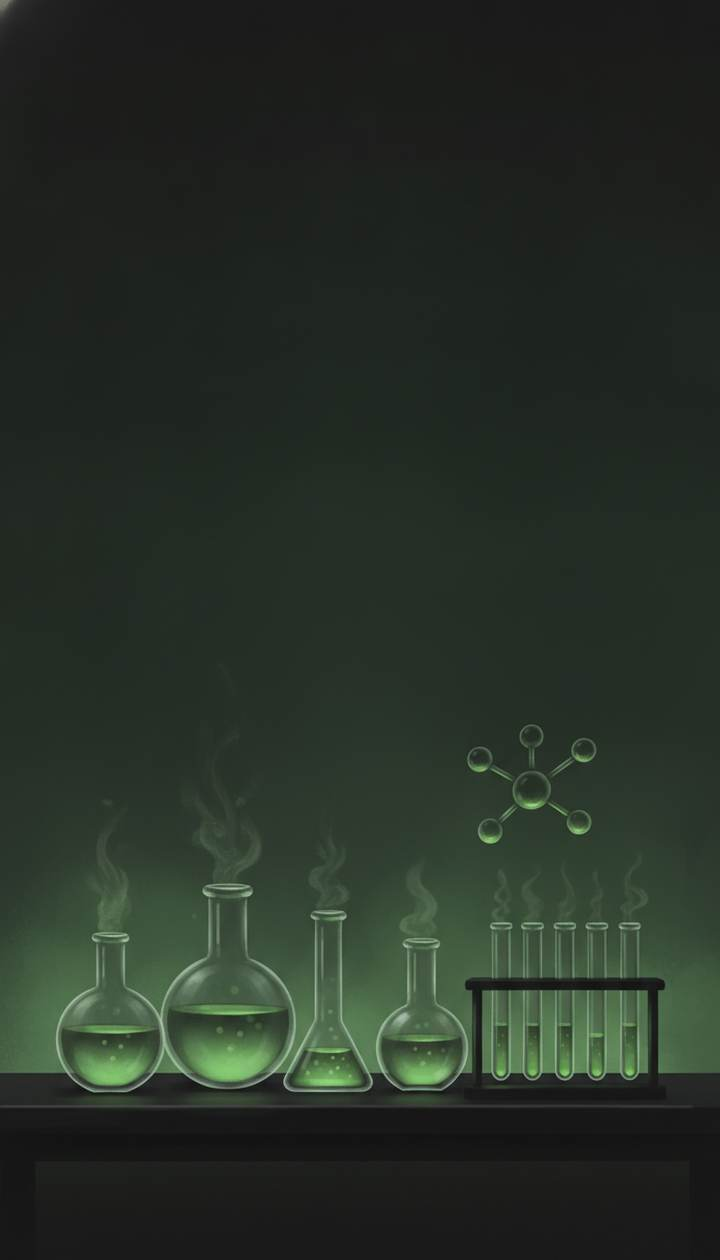
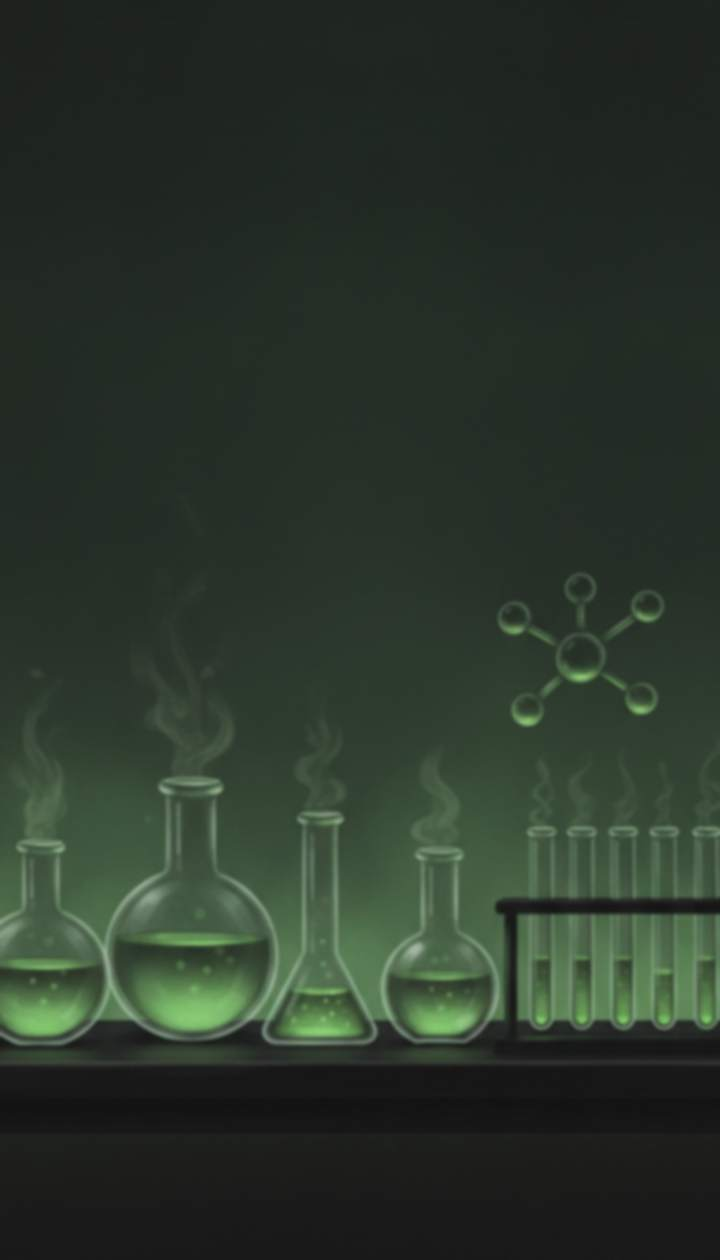
Rep Max v1.9.1 TEST: subject pictures that show, a calmer Maths
Further Maths, Chemistry and Computer Science showed nothing: their pictures'
content sat low, under the cards and the darkest part of the shade. Every
subject picture is now cropped round its content, softened and brought to a
common brightness, and the shade is more even. Maths has a new, calmer
picture (a desk with graph paper and a calculator). Two sections that shorten
to the same label (RS) keep the part before the colon. lib/bg is not used by
the live page, so its files were replaced in place.

Claude-Session: https://claude.ai/code/session_01LLwMj9AUuD7sV1ognCghbD

Changed region(s): [[0.0, 0.4333, 1.0, 0.8976], [0.6417, 0.5881, 0.7028, 0.619], [0.0, 0.0, 0.0306, 0.031]]

diff --git a/test/index.html b/test/index.html
@@ -240,7 +240,7 @@ a.big{color:inherit;text-decoration:none}
 #app{position:relative;z-index:1}
 #bgart{position:fixed;inset:0;z-index:0;background:#0d0f13 center top/cover no-repeat;opacity:0;transition:opacity .6s}
 #bgart.on{opacity:1}
-#bgart::after{content:"";position:absolute;inset:0;background:linear-gradient(180deg,rgba(13,15,19,.3) 0%,rgba(13,15,19,.5) 40%,rgba(13,15,19,.78) 100%)}
+#bgart::after{content:"";position:absolute;inset:0;background:linear-gradient(180deg,rgba(13,15,19,.4) 0%,rgba(13,15,19,.55) 45%,rgba(13,15,19,.66) 100%)}
 .card,.big,.msec{background-color:rgba(27,33,43,.86)}
 .card{background:rgba(27,33,43,.86)}
 .card.mapcard{background:rgba(13,15,19,.4);border-color:rgba(59,68,86,.6)}
@@ -600,12 +600,13 @@ function subjStates(ix,s){return ((SPEC[s]||{}).groups||[]).map(g=>g.topics.map(
 function mpol(cx,cy,r,a){a=(a-90)*Math.PI/180;return [+(cx+r*Math.cos(a)).toFixed(1),+(cy+r*Math.sin(a)).toFixed(1)];}
 function marc(cx,cy,r0,r1,a0,a1){if(a1-a0>=359.9)a1=a0+359.8;const L=a1-a0>180?1:0,[x0,y0]=mpol(cx,cy,r1,a0),[x1,y1]=mpol(cx,cy,r1,a1),[x2,y2]=mpol(cx,cy,r0,a1),[x3,y3]=mpol(cx,cy,r0,a0);return `M${x0} ${y0}A${r1} ${r1} 0 ${L} 1 ${x1} ${y1}L${x2} ${y2}A${r0} ${r0} 0 ${L} 0 ${x3} ${y3}Z`;}
 function mwrap(t,n,max){const L=[];let c="";for(const x of String(t).split(" ")){if((c+" "+x).trim().length>n&&c){L.push(c);c=x;}else c=(c+" "+x).trim();}L.push(c);if(L.length>max){L.length=max;L[max-1]+="…";}return L;}
+function secLabels(s){const gs=(SPEC[s]||{}).groups||[],a=gs.map(g=>secShort(g.name));return a.map((x,i)=>a.indexOf(x)!==a.lastIndexOf(x)?String(gs[i].name).split(": ")[0]:x);}
 function secShort(n){n=String(n).replace(/\s*\([^)]*\)/g,"");const c=n.indexOf(": ");if(c>0)n=/^Paper \d/.test(n)?n.slice(0,c):n.slice(c+2);if(n.length>24&&n.indexOf(",")>0)n=n.slice(0,n.indexOf(","));return n;}
 const mdefs=()=>`<svg width="0" height="0" style="position:absolute" aria-hidden="true"><defs><filter id="mglow" x="-40%" y="-40%" width="180%" height="180%"><feGaussianBlur stdDeviation="2" result="b"/><feMerge><feMergeNode in="b"/><feMergeNode in="SourceGraphic"/></feMerge></filter></defs></svg>`;
 const mkey=()=>`<div class="mkey"><span><i style="background:#323b4b"></i>Not started</span><span><i style="background:#e8a317"></i>Started</span><span><i style="background:var(--lime);box-shadow:0 0 6px var(--lime)"></i>Mastered</span><span><i style="background:#ff7a2f;border-radius:2px;height:5px"></i>Review due</span></div><div class="small muted center">Each piece fills up as that topic gets stronger.</div>`;
 /* the ring: inner ring a piece per section, lit from the middle by its share mastered; outer ring a piece per topic, filled as
    the topic gets stronger and glowing once mastered; an orange mark outside a topic with questions due for review */
-function ringSvg(s,P,big){const W=big?360:100,H=big?266:100,cx=W/2,cy=H/2,R=big?84:44,ci=big?.33:.42,i0=big?.36:.45,i1=big?.6:.62,o0=big?.63:.66,all=P.flat(),tot=all.length||1,gap=big?.6:.9;let a=0,out="";
+function ringSvg(s,P,big){const SL=big?secLabels(s):[],W=big?360:100,H=big?266:100,cx=W/2,cy=H/2,R=big?84:44,ci=big?.33:.42,i0=big?.36:.45,i1=big?.6:.62,o0=big?.63:.66,all=P.flat(),tot=all.length||1,gap=big?.6:.9;let a=0,out="";
   P.forEach((g,gi)=>{const span=360*g.length/tot,a0=a,mm=g.filter(x=>x.st===2).length/(g.length||1),gr=SPEC[s].groups[gi];
     let p=`<path class="mz0" d="${marc(cx,cy,R*i0,R*i1,a0+gap,a0+span-gap)}"/>`;
     if(mm>0)p+=`<path class="mz2" d="${marc(cx,cy,R*i0,R*i0+R*(i1-i0)*mm,a0+gap,a0+span-gap)}"/>`;
@@ -614,7 +615,7 @@ function ringSvg(s,P,big){const W=big?360:100,H=big?266:100,cx=W/2,cy=H/2,R=big?
       if(x.f>0)p+=`<path class="mz${x.st}"${x.st===2?' filter="url(#mglow)"':""} d="${marc(cx,cy,R*o0,R*o0+R*(1-o0)*x.f,b0+gg,b1-gg)}"/>`;
       if(x.due)p+=`<path class="mzd" d="${marc(cx,cy,R*1.04,R*1.1,b0+gg,b1-gg)}"/>`;});
     if(big){const mid=a0+span/2;
-      if(P.length<=8){const [x1,y1]=mpol(cx,cy,R*1.14,mid),[x2,y2]=mpol(cx,cy,R*1.3,mid),right=x2>=cx-2,ls=mwrap(secShort(gr.name),11,3);
+      if(P.length<=8){const [x1,y1]=mpol(cx,cy,R*1.14,mid),[x2,y2]=mpol(cx,cy,R*1.3,mid),right=x2>=cx-2,ls=mwrap(SL[gi],11,3);
         p+=`<line x1="${x1}" y1="${y1}" x2="${x2}" y2="${y2}" class="mzl"/>`+ls.map((l,i)=>`<text x="${(x2+(right?4:-4)).toFixed(1)}" y="${(y2+4+(i-(ls.length-1)/2)*12).toFixed(1)}" text-anchor="${right?"start":"end"}" class="mzt">${esc(l)}</text>`).join("");}
       else{const [x2,y2]=mpol(cx,cy,R*1.26,mid);p+=`<circle cx="${x2}" cy="${y2}" r="10" class="mzn"/><text x="${x2}" y="${(y2+4).toFixed(1)}" text-anchor="middle" class="mzt mzb">${gi+1}</text>`;}
       out+=`<g class="mzg" data-act="mapSec" data-s="${s}" data-g="${gi}" role="button" aria-label="${esc(gr.name)}">${p}</g>`;}
@@ -670,7 +671,7 @@ function secView(s,gi){setWide(false);const sp=SPEC[s],g=sp&&sp.groups[gi];if(!g
     X.forEach((x,i)=>{const a=i*360/n,[nx,ny]=mpol(cx,cy,R,a),[lx,ly]=mpol(cx,cy,R+36,a),k=s+"|"+x.t.id,right=lx>=cx-2,mid=Math.abs(lx-cx)<20,ls=mwrap(x.t.name,12,4);
       o+=`<g class="mzg" data-act="mapT" data-k="${esc(k)}" role="button" aria-label="${esc(x.t.name)}: ${mstate(x)}"><line x1="${cx}" y1="${cy}" x2="${nx}" y2="${ny}" class="msp${x.st}"${x.st===2?' filter="url(#mglow)"':""}/>${mnode(nx,ny,x)}`+
         ls.map((l,j)=>`<text x="${(lx+(mid?0:right?5:-5)).toFixed(1)}" y="${(ly+4+(j-(ls.length-1)/2)*13+(mid?(ly<cy?-12:12):0)).toFixed(1)}" text-anchor="${mid?"middle":right?"start":"end"}" class="mzt">${esc(l)}</text>`).join("")+`</g>`;});
-    o+=`<circle cx="${cx}" cy="${cy}" r="44" class="mzc2"/>`+mwrap(secShort(g.name),11,3).map((l,j,a)=>`<text x="${cx}" y="${(cy+5+(j-(a.length-1)/2)*15).toFixed(1)}" text-anchor="middle" class="mzh">${esc(l)}</text>`).join("");
+    o+=`<circle cx="${cx}" cy="${cy}" r="44" class="mzc2"/>`+mwrap(secLabels(s)[gi],11,3).map((l,j,a)=>`<text x="${cx}" y="${(cy+5+(j-(a.length-1)/2)*15).toFixed(1)}" text-anchor="middle" class="mzh">${esc(l)}</text>`).join("");
     svg=`<svg viewBox="0 0 ${W} ${H}" class="mapbig">${o}</svg>`;}
   else{const W=390,rh=52,H=n*rh+16,sx=30,sy=H/2,nx=104;
     X.forEach((x,i)=>{const y=8+rh/2+i*rh,k=s+"|"+x.t.id,ls=mwrap(x.t.name,30,2);
